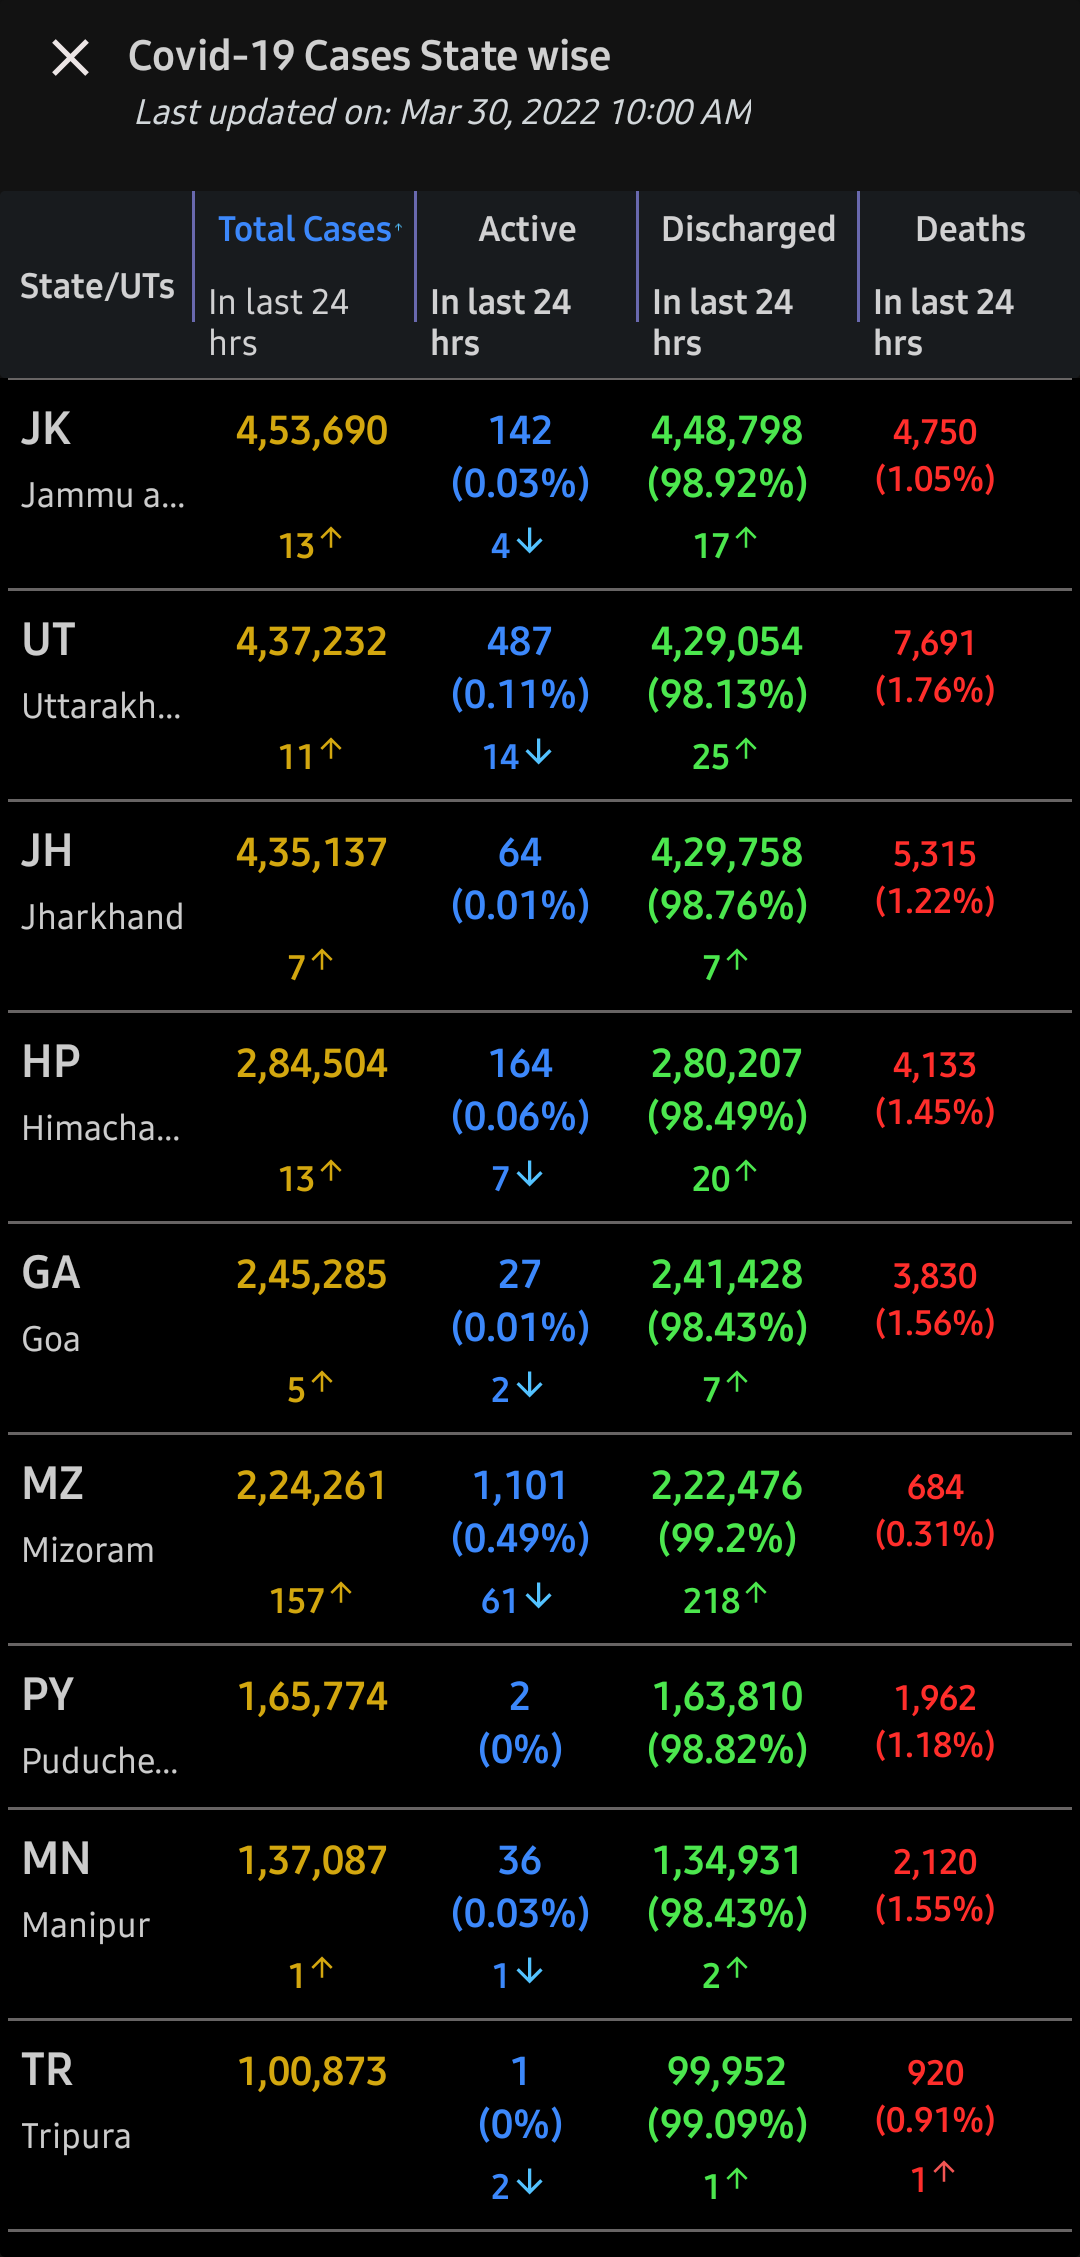
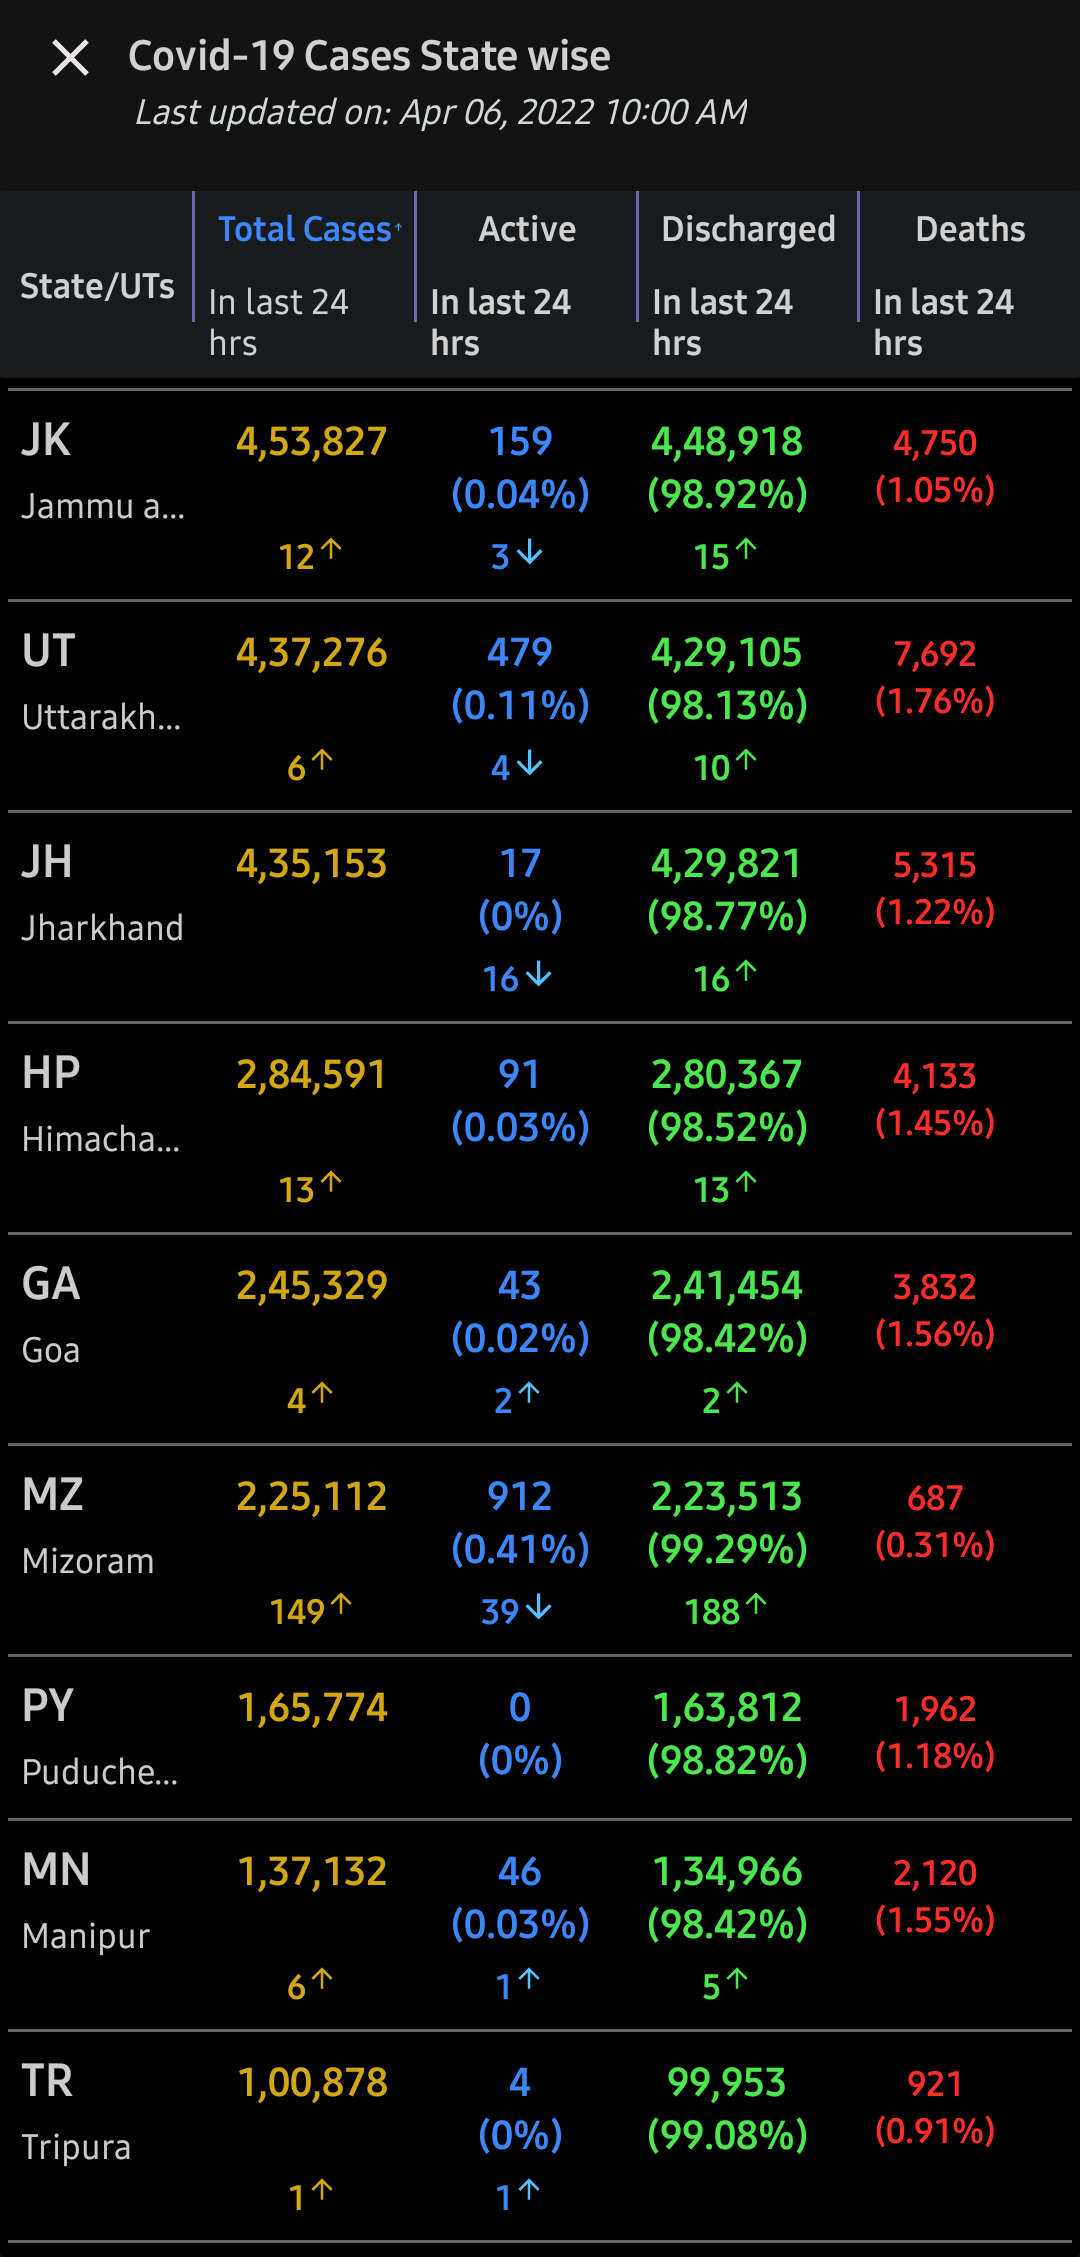
changes 9

diff --git a/index.html b/index.html
@@ -149,7 +149,7 @@
         </div>
         <div class="col s12" id="ind">
           <blockquote style="font-size: x-large; border-left-color: #1e88e5;">
-            <i class="fas fa-virus"></i> Covid 19 (Apr 4, Apr 3)</blockquote>
+            <i class="fas fa-virus"></i> Covid 19 (Apr 5, Apr 4)</blockquote>
           <h6 class="white-text">Source: ICMR/ MyGov<br>&#8595;&#8593; Changes from last 24 hours</h6>
           <!-- <div class="row">
             <div class="col s12 m12 l6">
@@ -159,22 +159,22 @@
               <img src="images/ISAi.png" alt="IndDB" width="100%" class="responsive-img materialboxed">
             </div>
           </div> -->
-          <div class="row">
+          <!-- <div class="row">
             <div class="col s12 m12 l6">
               <img src="images/IMOi.png" alt="IndDB" width="100%" class="responsive-img materialboxed">
             </div>
             <div class="col s12 m12 l6">
               <img src="images/ISUi.png" alt="IndDB" width="100%" class="responsive-img materialboxed">
             </div>
-          </div>
-          <!-- <div class="row">
+          </div> -->
+          <div class="row">
             <div class="col s12 m12 l6">
               <img src="images/ITUi.png" alt="IndDB" width="100%" class="responsive-img materialboxed">
             </div>
             <div class="col s12 m12 l6">
               <img src="images/IMOi.png" alt="IndDB" width="100%" class="responsive-img materialboxed">
             </div>
-          </div> -->
+          </div>
           <!-- <div class="row">
             <div class="col s12 m12 l6">
               <img src="images/IWEi.png" alt="IndDB" width="100%" class="responsive-img materialboxed">
@@ -208,7 +208,7 @@
             </div>
           </div> -->
           <blockquote style="font-size: x-large; border-left-color: #1e88e5;">
-            <i class="fas fa-syringe"></i> Vaccination (Apr 4, Apr 3)</blockquote>
+            <i class="fas fa-syringe"></i> Vaccination (Apr 5, Apr 4)</blockquote>
           <!-- <div class="row">
             <div class="col s12 m12 l6">
               <img src="images/ISUii.png" alt="IndDB" width="100%" class="responsive-img materialboxed">
@@ -217,24 +217,24 @@
               <img src="images/ISAii.png" alt="IndDB" width="100%" class="responsive-img materialboxed">
             </div>
           </div> -->
-          <div class="row">
+          <!-- <div class="row">
             <div class="col s12 m12 l6">
               <img src="images/IMOii.png" alt="IndDB" width="100%" class="responsive-img materialboxed">
             </div>
             <div class="col s12 m12 l6">
               <img src="images/ISUii.png" alt="IndDB" width="100%" class="responsive-img materialboxed">
+            </div>
+          </div> -->
+          <div class="row">
+            <div class="col s12 m12 l6">
+              <img src="images/ITUii.png" alt="IndDB" width="100%" class="responsive-img materialboxed">
+            </div>
+            <div class="col s12 m12 l6">
+              <img src="images/IMOii.png" alt="IndDB" width="100%" class="responsive-img materialboxed">
             </div>
           </div>
           <!-- <div class="row">
             <div class="col s12 m12 l6">
-              <img src="images/ITUii.png" alt="IndDB" width="100%" class="responsive-img materialboxed">
-            </div>
-            <div class="col s12 m12 l6">
-              <img src="images/IMOii.png" alt="IndDB" width="100%" class="responsive-img materialboxed">
-            </div>
-          </div> -->
-          <!-- <div class="row">
-            <div class="col s12 m12 l6">
               <img src="images/IWEii.png" alt="IndDB" width="100%" class="responsive-img materialboxed">
             </div>
             <div class="col s12 m12 l6">
@@ -265,49 +265,49 @@
               <img src="images/IFRii.png" alt="IndDB" width="100%" class="responsive-img materialboxed">
             </div>
           </div> -->
-          <h6>Below Data as on April 5, 19:15 IST</h6>
+          <h6>Below Data as on April 6, 11:55 IST</h6>
           <div class="row">
             <div class="col s12 m6 l4">
               <div class="card-panel grey darken-4 white-text">
                 <h5><b>Vaccine Doses availability</b></h5>
-                <p>As on April 5, Source: PIB India</p>
-                <p><b>Supplied</b>: 185.53 Crores</p>
+                <p>As on April 6, Source: PIB India</p>
+                <p><b>Supplied</b>: 185.79 Crores</p>
                 <p><b>Balance</b>: 15.70 Crores</p>
               </div>
             </div>
             <div class="col s12 m6 l4">
               <div class="card-panel grey darken-4 white-text">
                 <h5><b>Vaccine Doses administered</b></h5>
-                <p><b>Dose 1</b>: 99.20 Crores</p>
-                <p><b>Dose 2</b>: 83.47 Crores</p>
-                <p><b>Prec. Dose</b>: 2.24 Crores</p>
-                <p><b>Total</b>: 184.92 Crores</p>
+                <p><b>Dose 1</b>: 99.22 Crores</p>
+                <p><b>Dose 2</b>: 83.50 Crores</p>
+                <p><b>Prec. Dose</b>: 2.25 Crores</p>
+                <p><b>Total</b>: 184.97 Crores</p>
               </div>
             </div>
             <div class="col s12 m6 l4">
               <div class="card-panel grey darken-4 white-text">
                 <h5><b>Registered for Vaccine</b></h5>
-                <p><b>Age 12 to 14</b>: 2.03 Crores</p>
-                <p><b>Age 15 to 17</b>: 5.83 Crores</p>
+                <p><b>Age 12 to 14</b>: 2.04 Crores</p>
+                <p><b>Age 15 to 17</b>: 5.84 Crores</p>
                 <p><b>Age 18 to 44</b>: 62.95 Crores</p>
                 <p><b>Age 45+</b>: 36.53 Crores</p>
-                <p><b>Total</b>: 107.36 Crores</p>
+                <p><b>Total</b>: 107.38 Crores</p>
               </div>
             </div>
             <div class="col s12 m6 l4">
               <div class="card-panel grey darken-4 white-text">
                 <h5><b>Vaccination by Gender</b></h5>
-                <p><b>Male</b>: 92.97 Crores</p>
-                <p><b>Female</b>: 89.24 Crores</p>
+                <p><b>Male</b>: 92.99 Crores</p>
+                <p><b>Female</b>: 89.26 Crores</p>
                 <p><b>Others</b>: 4.39 Lakhs</p>
               </div>
             </div>
             <div class="col s12 m6 l4">
               <div class="card-panel grey darken-4 white-text">
                 <h5><b>Vaccination by Vaccine Name</b></h5>
-                <p><b>CoviShield</b>: 151.52 Crores</p>
-                <p><b>Covaxin</b>: 30.88 Crores</p>
-                <p><b>Corbevax</b>: 1.97 Crores</p>
+                <p><b>CoviShield</b>: 151.54 Crores</p>
+                <p><b>Covaxin</b>: 30.89 Crores</p>
+                <p><b>Corbevax</b>: 1.99 Crores</p>
                 <p><b>Sputnik V</b>: 12.22 Lakhs</p>
                 <p><b>Novavax</b>: -</p>
                 <p><b>Zycov-D</b>: -</p>
@@ -316,10 +316,10 @@
             <div class="col s12 m6 l4">
               <div class="card-panel grey darken-4 white-text">
                 <h5><b>Vaccination by Age</b></h5>
-                <p><b>Age 12 to 14</b>: 1.97 Crores</p>
-                <p><b>Age 15 to 17</b>: 9.62 Crores</p>
-                <p><b>Age 18 to 44</b>: 106.84 Crores</p>
-                <p><b>Age 45 to 60</b>: 40.40 Crores</p>
+                <p><b>Age 12 to 14</b>: 1.99 Crores</p>
+                <p><b>Age 15 to 17</b>: 9.63 Crores</p>
+                <p><b>Age 18 to 44</b>: 106.85 Crores</p>
+                <p><b>Age 45 to 60</b>: 40.41 Crores</p>
                 <p><b>Age 60+</b>: 25.65 Crores</p>
               </div>
             </div>
@@ -327,7 +327,7 @@
         </div>
         <div class="col s12" id="sta">
           <blockquote style="font-size: x-large; border-left-color: #1e88e5;">
-            <i class="fas fa-virus"></i> Covid 19 (Apr 4, Apr 3)</blockquote>
+            <i class="fas fa-virus"></i> Covid 19 (Apr 5, Apr 4)</blockquote>
           <!-- <div class="row">
             <div class="col s12 m12 l3">
               <img src="images/SSUi.png" alt="StatDB1" width="100%" class="responsive-img materialboxed">
@@ -342,7 +342,7 @@
               <img src="images/SSUiv.png" alt="StatDB4" width="100%" class="responsive-img materialboxed">
             </div>
           </div> -->
-          <div class="row">
+          <!-- <div class="row">
             <div class="col s12 m12 l3">
               <img src="images/SMOi.png" alt="StatDB1" width="100%" class="responsive-img materialboxed">
             </div>
@@ -355,8 +355,8 @@
             <div class="col s12 m12 l3">
               <img src="images/SMOiv.png" alt="StatDB4" width="100%" class="responsive-img materialboxed">
             </div>
-          </div>
-          <!-- <div class="row">
+          </div> -->
+          <div class="row">
             <div class="col s12 m12 l3">
               <img src="images/STUi.png" alt="StatDB1" width="100%" class="responsive-img materialboxed">
             </div>
@@ -369,7 +369,7 @@
             <div class="col s12 m12 l3">
               <img src="images/STUiv.png" alt="StatDB4" width="100%" class="responsive-img materialboxed">
             </div>
-          </div> -->
+          </div>
           <!-- <div class="row">
             <div class="col s12 m12 l3">
               <img src="images/SWEi.png" alt="StatDB1" width="100%" class="responsive-img materialboxed">
@@ -426,7 +426,7 @@
               <img src="images/SSAiv.png" alt="StatDB4" width="100%" class="responsive-img materialboxed">
             </div>
           </div> -->
-          <div class="row">
+          <!-- <div class="row">
             <div class="col s12 m12 l3">
               <img src="images/SSUi.png" alt="StatDB1" width="100%" class="responsive-img materialboxed">
             </div>
@@ -439,8 +439,8 @@
             <div class="col s12 m12 l3">
               <img src="images/SSUiv.png" alt="StatDB4" width="100%" class="responsive-img materialboxed">
             </div>
-          </div>
-          <!-- <div class="row">
+          </div> -->
+          <div class="row">
             <div class="col s12 m12 l3">
               <img src="images/SMOi.png" alt="StatDB1" width="100%" class="responsive-img materialboxed">
             </div>
@@ -453,7 +453,7 @@
             <div class="col s12 m12 l3">
               <img src="images/SMOiv.png" alt="StatDB4" width="100%" class="responsive-img materialboxed">
             </div>
-          </div> -->
+          </div>
           <!-- <div class="row">
             <div class="col s12 m12 l3">
               <img src="images/STUi.png" alt="StatDB1" width="100%" class="responsive-img materialboxed">
@@ -511,7 +511,7 @@
             </div>
           </div> -->
           <blockquote style="font-size: x-large; border-left-color: #1e88e5;">
-            <i class="fas fa-syringe"></i> Vaccination (Apr 4, Apr 3)</blockquote>
+            <i class="fas fa-syringe"></i> Vaccination (Apr 5, Apr 4)</blockquote>
           <!-- <div class="row">
             <div class="col s12 m12 l3">
               <img src="images/VSUi.png" alt="VacDB1" width="100%" class="responsive-img materialboxed">
@@ -526,7 +526,7 @@
               <img src="images/VSAii.png" alt="VacDB2" width="100%" class="responsive-img materialboxed">
             </div>
           </div> -->
-          <div class="row">
+          <!-- <div class="row">
             <div class="col s12 m12 l3">
               <img src="images/VMOi.png" alt="VacDB1" width="100%" class="responsive-img materialboxed">
             </div>
@@ -539,8 +539,8 @@
             <div class="col s12 m12 l3">
               <img src="images/VSUii.png" alt="VacDB2" width="100%" class="responsive-img materialboxed">
             </div>
-          </div>
-          <!-- <div class="row">
+          </div> -->
+          <div class="row">
             <div class="col s12 m12 l3">
               <img src="images/VTUi.png" alt="VacDB1" width="100%" class="responsive-img materialboxed">
             </div>
@@ -553,7 +553,7 @@
             <div class="col s12 m12 l3">
               <img src="images/VMOii.png" alt="VacDB2" width="100%" class="responsive-img materialboxed">
             </div>
-          </div> -->
+          </div>
           <!-- <div class="row">
             <div class="col s12 m12 l3">
               <img src="images/VWEi.png" alt="VacDB1" width="100%" class="responsive-img materialboxed">
